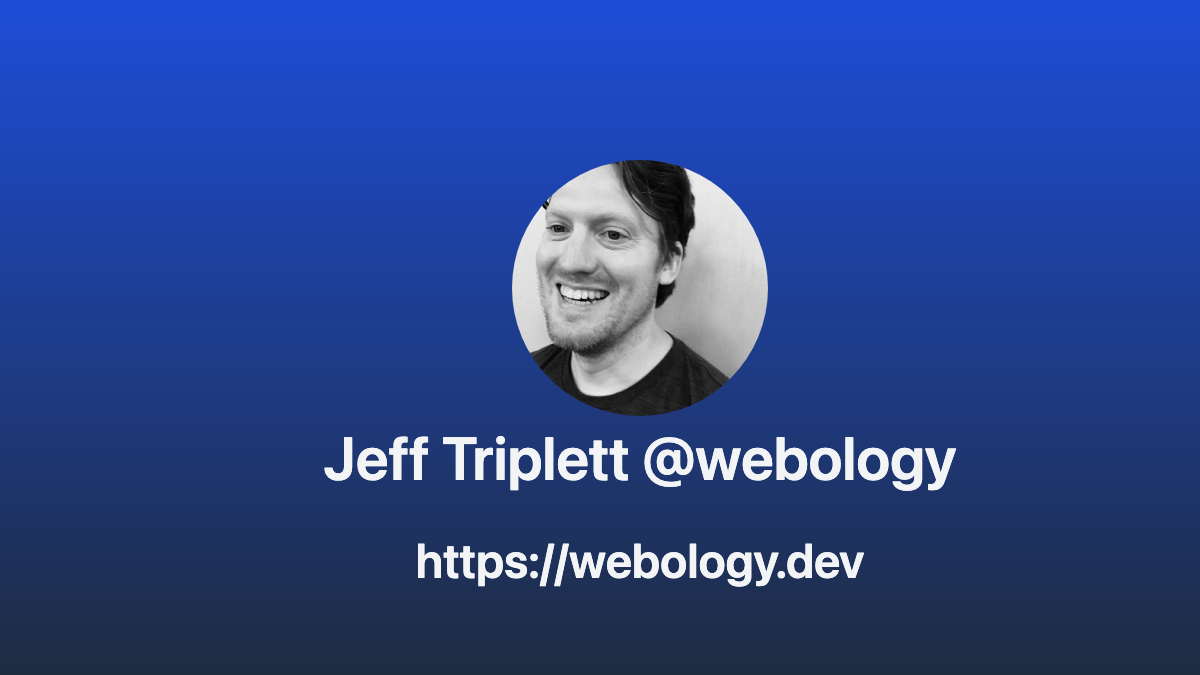
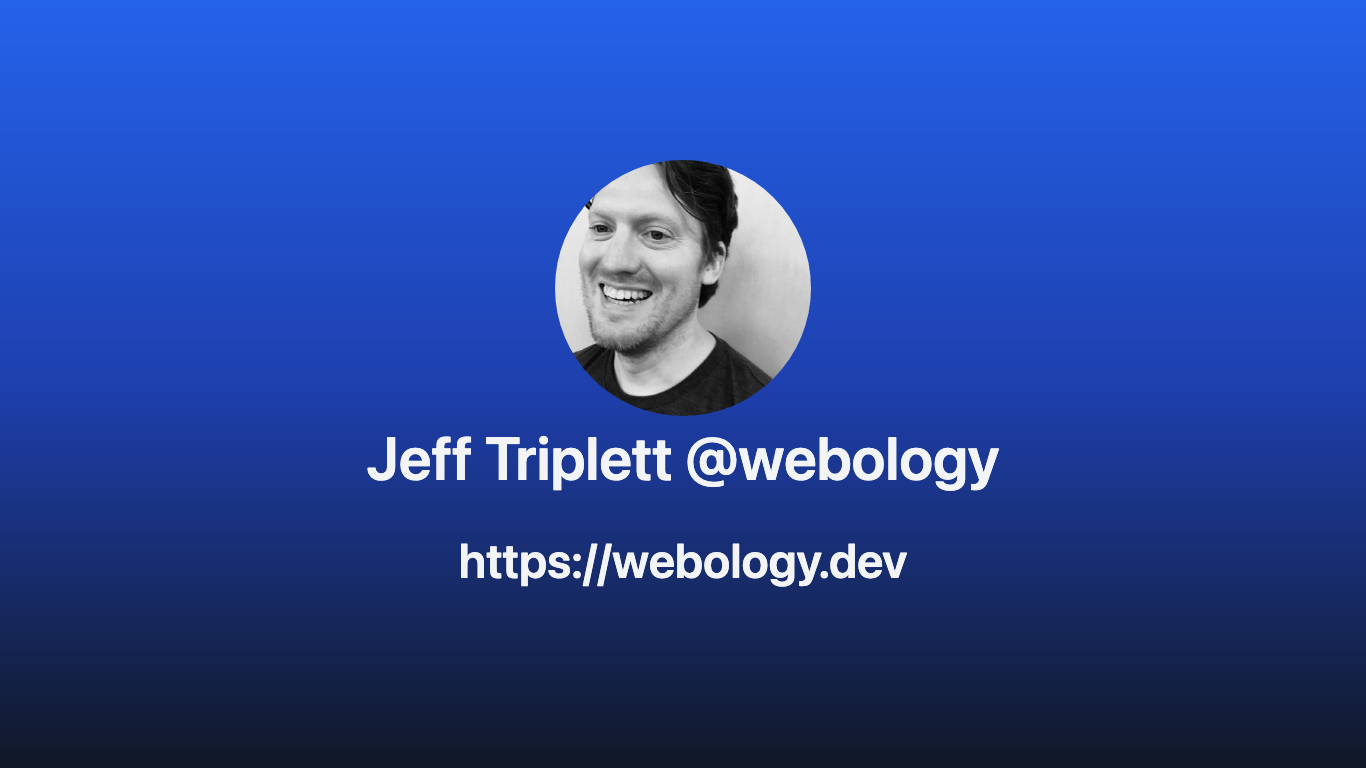
:hammer: Updates

diff --git a/README.md b/README.md
@@ -4,51 +4,15 @@ tl;dr I built a Linktree-clone using GitHub Pages (Jekyll), TailwindCSS (JIT), a
 
 Longer: I bought webology.dev a few years back and wanted to build a more generic place to point people to things I'm doing instead of seeing that I don't blog enough.
 
-![screenshot](assets/images/screenshot.png)
+## Website Preview
+![screenshot](assets/images/screenshot.png){:width="50%"}
 
-----
+## Social Preview
+![preview](assets/images/preview.png){:width="50%"}
 
-## Original README
+## Original Theme
 
-## Indigo-based Minimalist Jekyll Template
-
-#### Modified from the original for use as a social media link tree.
-
-I created this is an alternative to paid-for link services and to build something I can manage using familiar workflows. Oh, and it doesn't hurt that it's open source. Enjoy. -zd
-
-[Demo](https://zchef2k.github.io/indigo-linkinbio)
-
-## What's inside
-
-- [Jekyll](https://jekyllrb.com/) . [Sass](https://sass-lang.com/) . [RSCSS](https://rscss.io/) . [SVG](https://www.w3.org/Graphics/SVG/)
-- No JS!
-- Trimmed down version of [indigo](https://github.com/sergiokopplin/indigo) with several components and plugins removed.
-
-## Setup
-
-1. Fork the project [indigo-linkinbio](https://github.com/zchef2k/indigo-linkinbio/fork).
-2. Edit `_config.yml` with your data.
-3. See the example post. The "tag" will be used as the href value, the excerpt for the link text.
-4. Customize 'a.button' in general.sass (or any other style, for that matter) to make it yours.
-
-If you want to test locally on your machine, perform the following:
-
-1. Read and follow [these](https://docs.github.com/en/github/working-with-github-pages/testing-your-github-pages-site-locally-with-jekyll) instructions.
-2. Clone the forked repo on your machine.
-3. Enter the cloned folder via terminal and run `bundle install`.
-4. Then run `bundle exec jekyll serve --config _config.yml,_config-dev.yml`.
-5. Open it in your browser: `http://localhost:4000`.
-
-## Settings
-
-You must fill some informations on `_config.yml` to customize your site.
-
-```
-name: John Doe
-bio: 'A Man who travels the world eating noodles and posts about it on social media'
-picture: 'assets/images/profile.jpg'
-...
-```
+This website started off as a fork of [Indigo-based Minimalist Jekyll Template](https://github.com/zchef2k/indigo-linkinbioa) then grew legs of its own.
 
 ## Original License
 
